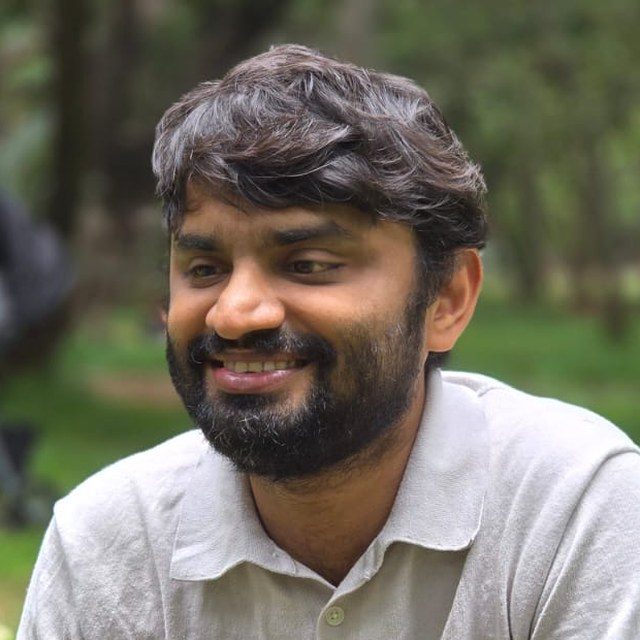
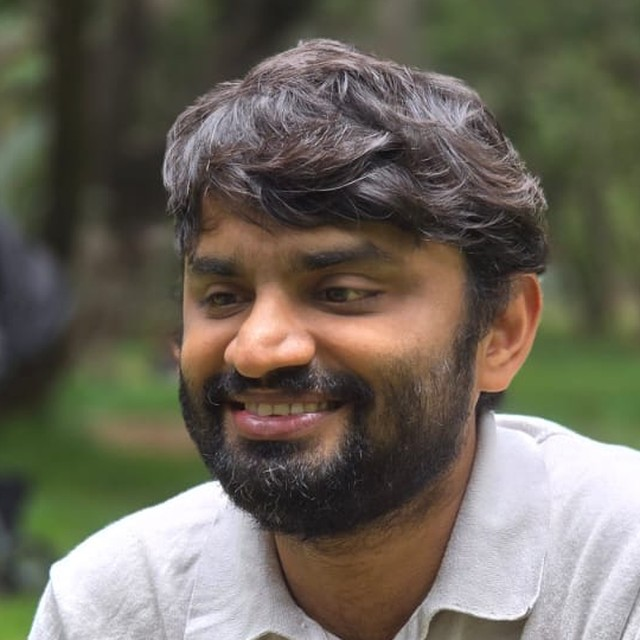
Recentre and tighten profile crop, lighter dark-mode ring
Claude-Session: https://claude.ai/code/session_01N1ooXYFHET4YTnkCDdN4br

diff --git a/index.html b/index.html
@@ -17,7 +17,7 @@
   <link rel="preconnect" href="https://fonts.googleapis.com" />
   <link rel="preconnect" href="https://fonts.gstatic.com" crossorigin />
   <link href="https://fonts.googleapis.com/css2?family=Inter:wght@400;500;600&family=Source+Serif+4:opsz,wght@8..60,500;8..60,600;8..60,700&display=swap" rel="stylesheet" />
-  <link rel="stylesheet" href="styles.css?v=16" />
+  <link rel="stylesheet" href="styles.css?v=17" />
   <script>
     // Apply a saved theme choice before the page paints to avoid a flash.
     (function () {
@@ -38,7 +38,7 @@
   <div class="layout">
     <aside class="sidebar">
       <div class="profile">
-        <img src="profile.jpg?v=3" alt="Pratheek B" class="profile-photo" width="160" height="160" />
+        <img src="profile.jpg?v=4" alt="Pratheek B" class="profile-photo" width="160" height="160" />
         <div class="nameblock">
           <h1>Pratheek B</h1>
           <div class="role">Senior Software Engineer, NVIDIA</div>

diff --git a/styles.css b/styles.css
@@ -13,6 +13,7 @@
   --serif: 'Source Serif 4', Georgia, 'Times New Roman', serif;
   --sans: 'Inter', -apple-system, BlinkMacSystemFont, 'Segoe UI', Roboto, Arial, sans-serif;
   --sidebar-w: 300px;
+  --photo-ring: 0 0 0 4px var(--surface), 0 0 0 5px var(--rule);
 }
 
 /* Dark theme: follows the system unless the visitor picked a theme with the toggle */
@@ -29,6 +30,7 @@
     --accent-soft: #263240;
     --gold: #e8bd6a;
     --gold-soft: #352b18;
+    --photo-ring: 0 0 0 1px rgba(236, 229, 216, 0.14);
   }
 }
 
@@ -44,6 +46,7 @@
   --accent-soft: #263240;
   --gold: #e8bd6a;
   --gold-soft: #352b18;
+  --photo-ring: 0 0 0 1px rgba(236, 229, 216, 0.14);
 }
 
 *,
@@ -118,7 +121,7 @@ a:focus-visible {
   border-radius: 50%;
   object-fit: cover;
   display: block;
-  box-shadow: 0 0 0 4px var(--surface), 0 0 0 5px var(--rule);
+  box-shadow: var(--photo-ring);
 }
 
 .nameblock {
